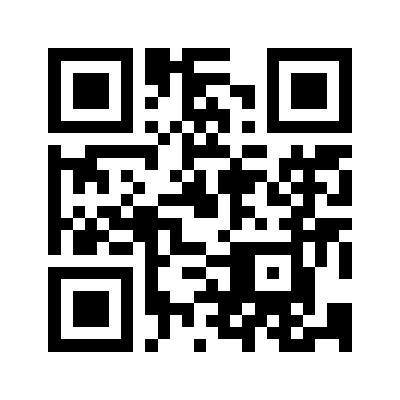
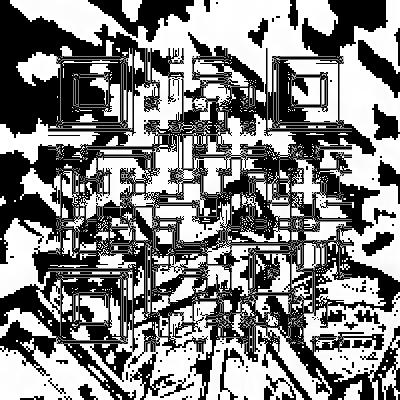
Update Final

diff --git a/tanso/tanso.py b/tanso/tanso.py
@@ -1,24 +1,49 @@
 import cv2
-from PIL import Image
 import numpy as np
-
 import matplotlib.pyplot as plt
 
-#file = "watermarked_image.png"
-#file = "extract.png"
-file = "image//"
-img = cv2.imread(file,0)
-cv2.imshow("anh",img)
-cv2.waitKey()
+def compare_images(image1, image2):
+    # Đọc hai hình ảnh
+    img1 = cv2.imread(image1, 0)
+    img2 = cv2.imread(image2, 0)
 
-hist = np.zeros((265,),np.uint8)
+    # Tính toán histogram cho hai hình ảnh
+    hist_img1 = cv2.calcHist([img1], [0], None, [256], [0, 256])
+    hist_img2 = cv2.calcHist([img2], [0], None, [256], [0, 256])
 
-[w,h] = img.shape[:2]
+    # Chuẩn hóa histogram
+    hist_img1 /= hist_img1.sum()
+    hist_img2 /= hist_img2.sum()
 
-for i in range(w):
+    # Tính độ tương đồng giữa hai histogram
+    similarity = cv2.compareHist(hist_img1, hist_img2, cv2.HISTCMP_CORREL)
 
-    for j in range(h):
-        hist[img[i][j]] +=1
-fig = plt.figure()
-plt.plot(hist)
+    return similarity
+
+# File ảnh cần so sánh
+image1_path = "image//en_QR_Image.png"
+image2_path = "image//extracted_QR.png"
+
+# So sánh hai ảnh
+similarity_score = compare_images(image1_path, image2_path)
+
+# Hiển thị kết quả
+print(f"Similarity Score: {similarity_score}")
+
+# Trực quan hóa hai hình ảnh và kết quả đánh giá tương đồng
+img1 = cv2.imread(image1_path)
+img2 = cv2.imread(image2_path)
+
+fig, axes = plt.subplots(1, 3, figsize=(15, 5))
+axes[0].imshow(cv2.cvtColor(img1, cv2.COLOR_BGR2RGB))
+axes[0].set_title('Image 1')
+
+axes[1].imshow(cv2.cvtColor(img2, cv2.COLOR_BGR2RGB))
+axes[1].set_title('Image 2')
+
+axes[2].text(0.5, 0.5, f"Similarity Score: {similarity_score:.4f}", 
+             ha='center', va='center', fontsize=12, color='blue')
+axes[2].axis('off')
+axes[2].set_title('Similarity Score')
+
 plt.show()

diff --git a/src/water_DWT_SVD.py b/src/water_DWT_SVD.py
@@ -3,7 +3,7 @@ import numpy as np
 import pywt
 
 secret_img = cv2.imread("image//en_QR_Image.png",0)
-cover_img = cv2.imread("image//5_cover.png",0)
+cover_img = cv2.imread("image//1_cover.png",0)
 
 coeffs = pywt.dwt2(cover_img,"haar")
 cA,(cH,cV,cD) = coeffs
@@ -37,4 +37,4 @@ cD_new = mang(cD ,secret_cD)
 coeffs_new = cA_new,(cH_new,cV_new,cD_new)
 img_new = pywt.idwt2(coeffs_new,'haar')
 
-cv2.imwrite('image//5_cover.png',img_new)
+cv2.imwrite('image//re_1_cover.png',img_new)

diff --git a/src/decode_QR_Image.py b/src/decode_QR_Image.py
@@ -30,7 +30,8 @@ def read_qr_code(image_path):
     value, pts, qr_code = detector.detectAndDecode(img)
     return value
 
-encrypted_image_path = 'image\\en_QR_Image.png'
+# encrypted_image_path = 'image\\en_QR_Image.png'
+encrypted_image_path = 'image\\extracted_QR.png'
 decrypt_image_path = 'image\\de_QR_Image.jpg'
 
 r = 4

diff --git a/src/decode_dwt_svd.py b/src/decode_dwt_svd.py
@@ -2,7 +2,7 @@ import cv2
 import numpy as np
 import pywt
 
-cover_img = cv2.imread('image//1_cover.png',0)
+cover_img = cv2.imread('image//re_1_cover.png',0)
 coeffs = pywt.dwt2(cover_img,'haar')
 cA,(cH,cV,cD) = coeffs
 

diff --git a/README.md b/README.md
@@ -1,0 +1,1 @@
+# DWT-SVD
